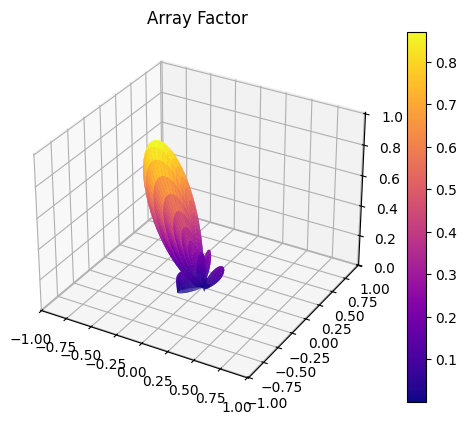
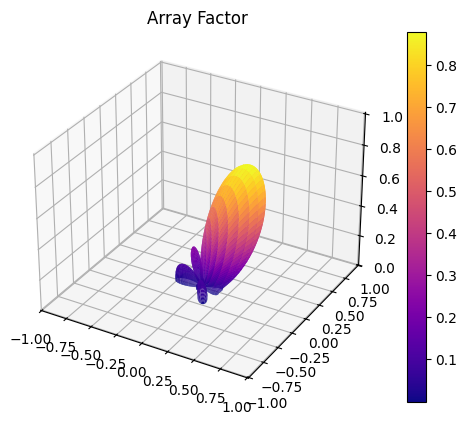
successfully got transmit working

diff --git a/GUI/main.py b/GUI/main.py
@@ -143,19 +143,10 @@ def beam_page():
 
     @ui.page('/transmit_mode')
     def transmit_mode():
-        image_container = ui.row().classes('w-full justify-center items-center').style('order:2;')
+        
+        ports = serial.tools.list_ports.comports()
+        portsList = {p.device:f'{p.device} - {p.description}'for p in ports}  
 
-        def Transmit(dx,dy,theta,phi):
-            '''
-            Transmit with the main beam direction as defined by the user
-            We should also have live elements where the user can move the rx antenna 
-            to show relative magnitudes at different angles
-            '''
-            #show the user what the expected beam pattern
-            runAF_Calc(dx,dy,theta,phi)
-            image_container.clear() #remove any existing images
-            with image_container:
-                ui.image('media/AF.png').style('width:45%;').force_reload()
 
         # Back button in the top-left
         ui.button('⬅ Back', on_click=ui.navigate.back)
@@ -167,9 +158,10 @@ def beam_page():
 
 
             with ui.row().classes('w-full justify-center items-center'):
-                ui.image('media/Default_Array.png').style('width: 45%;')
-                ui.image('media/Default_Array2.png').style('width: 45%;')
-            
+                ui.image('media/Default_Array.png').style('width: 35%;')
+                ui.image('media/Default_Array2.png').style('width: 35%;')
+                com_input = ui.select(options = portsList, label = 'Select Arduino Port').style('width: 300px')
+        
 
             with ui.row().classes('w-full justify-center items-center'):
                 dx = ui.number(label = 'dx (λ)', value=0.5, min=0.1).style('width:20%')
@@ -180,8 +172,45 @@ def beam_page():
             with ui.row().classes('w-full justify-center items-center'):
                 submit_button = ui.button(
                     'Transmit',
-                    on_click=lambda: Transmit(dx.value, dy.value,theta.value, phi.value)
+                    on_click=lambda: Transmit()
                 )
+            image_container = ui.row().classes('w-full justify-center items-center').style('order:2;')
+
+            def Transmit():
+                '''
+                Transmit with the main beam direction as defined by the user
+                We should also have live elements where the user can move the rx antenna 
+                to show relative magnitudes at different angles
+                '''
+                #show the user what the expected beam pattern
+                beta_x, beta_y = runAF_Calc(dx.value,dy.value,theta.value,phi.value)
+                
+                image_container.clear() #remove any existing images
+                with image_container:
+                    ui.image('media/AF.png').style('width:45%;').force_reload()
+
+                #TODO with beta_x and beta_y send the appropriate phases to the arduino
+                '''  
+                recall array elements are like
+                1 2 3 4
+                5 6 7 8
+                9 10 11 12
+                13 14 15 16
+                where x goes down the rows and y goes across the columns
+                ---->y
+                |
+                |
+                |
+                x
+                ''' 
+                phase_array = [None] * 16
+                for M in range(4):
+                    #iterate across a row with constant dx*M offset (0-3)
+                    for N in range(4):
+                        #iterate across columns with constant dy*N offset (0-3)
+                        #example N = 3 M = 2 element address = 3 +4*2 = 11 ->index of 10th   
+                        phase_array[N + 4*M] = int((np.rad2deg(beta_x) * M + np.rad2deg(beta_y) * N) % 360)
+                send_phases(com_input.value, phase_array) 
 
     @ui.page('/receive_mode')
     def receive_mode():        

diff --git a/GUI/AF_Calc.py b/GUI/AF_Calc.py
@@ -117,7 +117,9 @@ def main():
 def runAF_Calc(dx,dy,theta,phi):
     betaX,betaY = find_phase_shift(theta, phi, dx,dy) 
     dispAF(dx,dy,betaX,betaY,disp=False)
-
+    #return betax and y to be used in actually shifting the array
+    return betaX, betaY
+    
 #run that shit
 if __name__ == '__main__':
     main()
